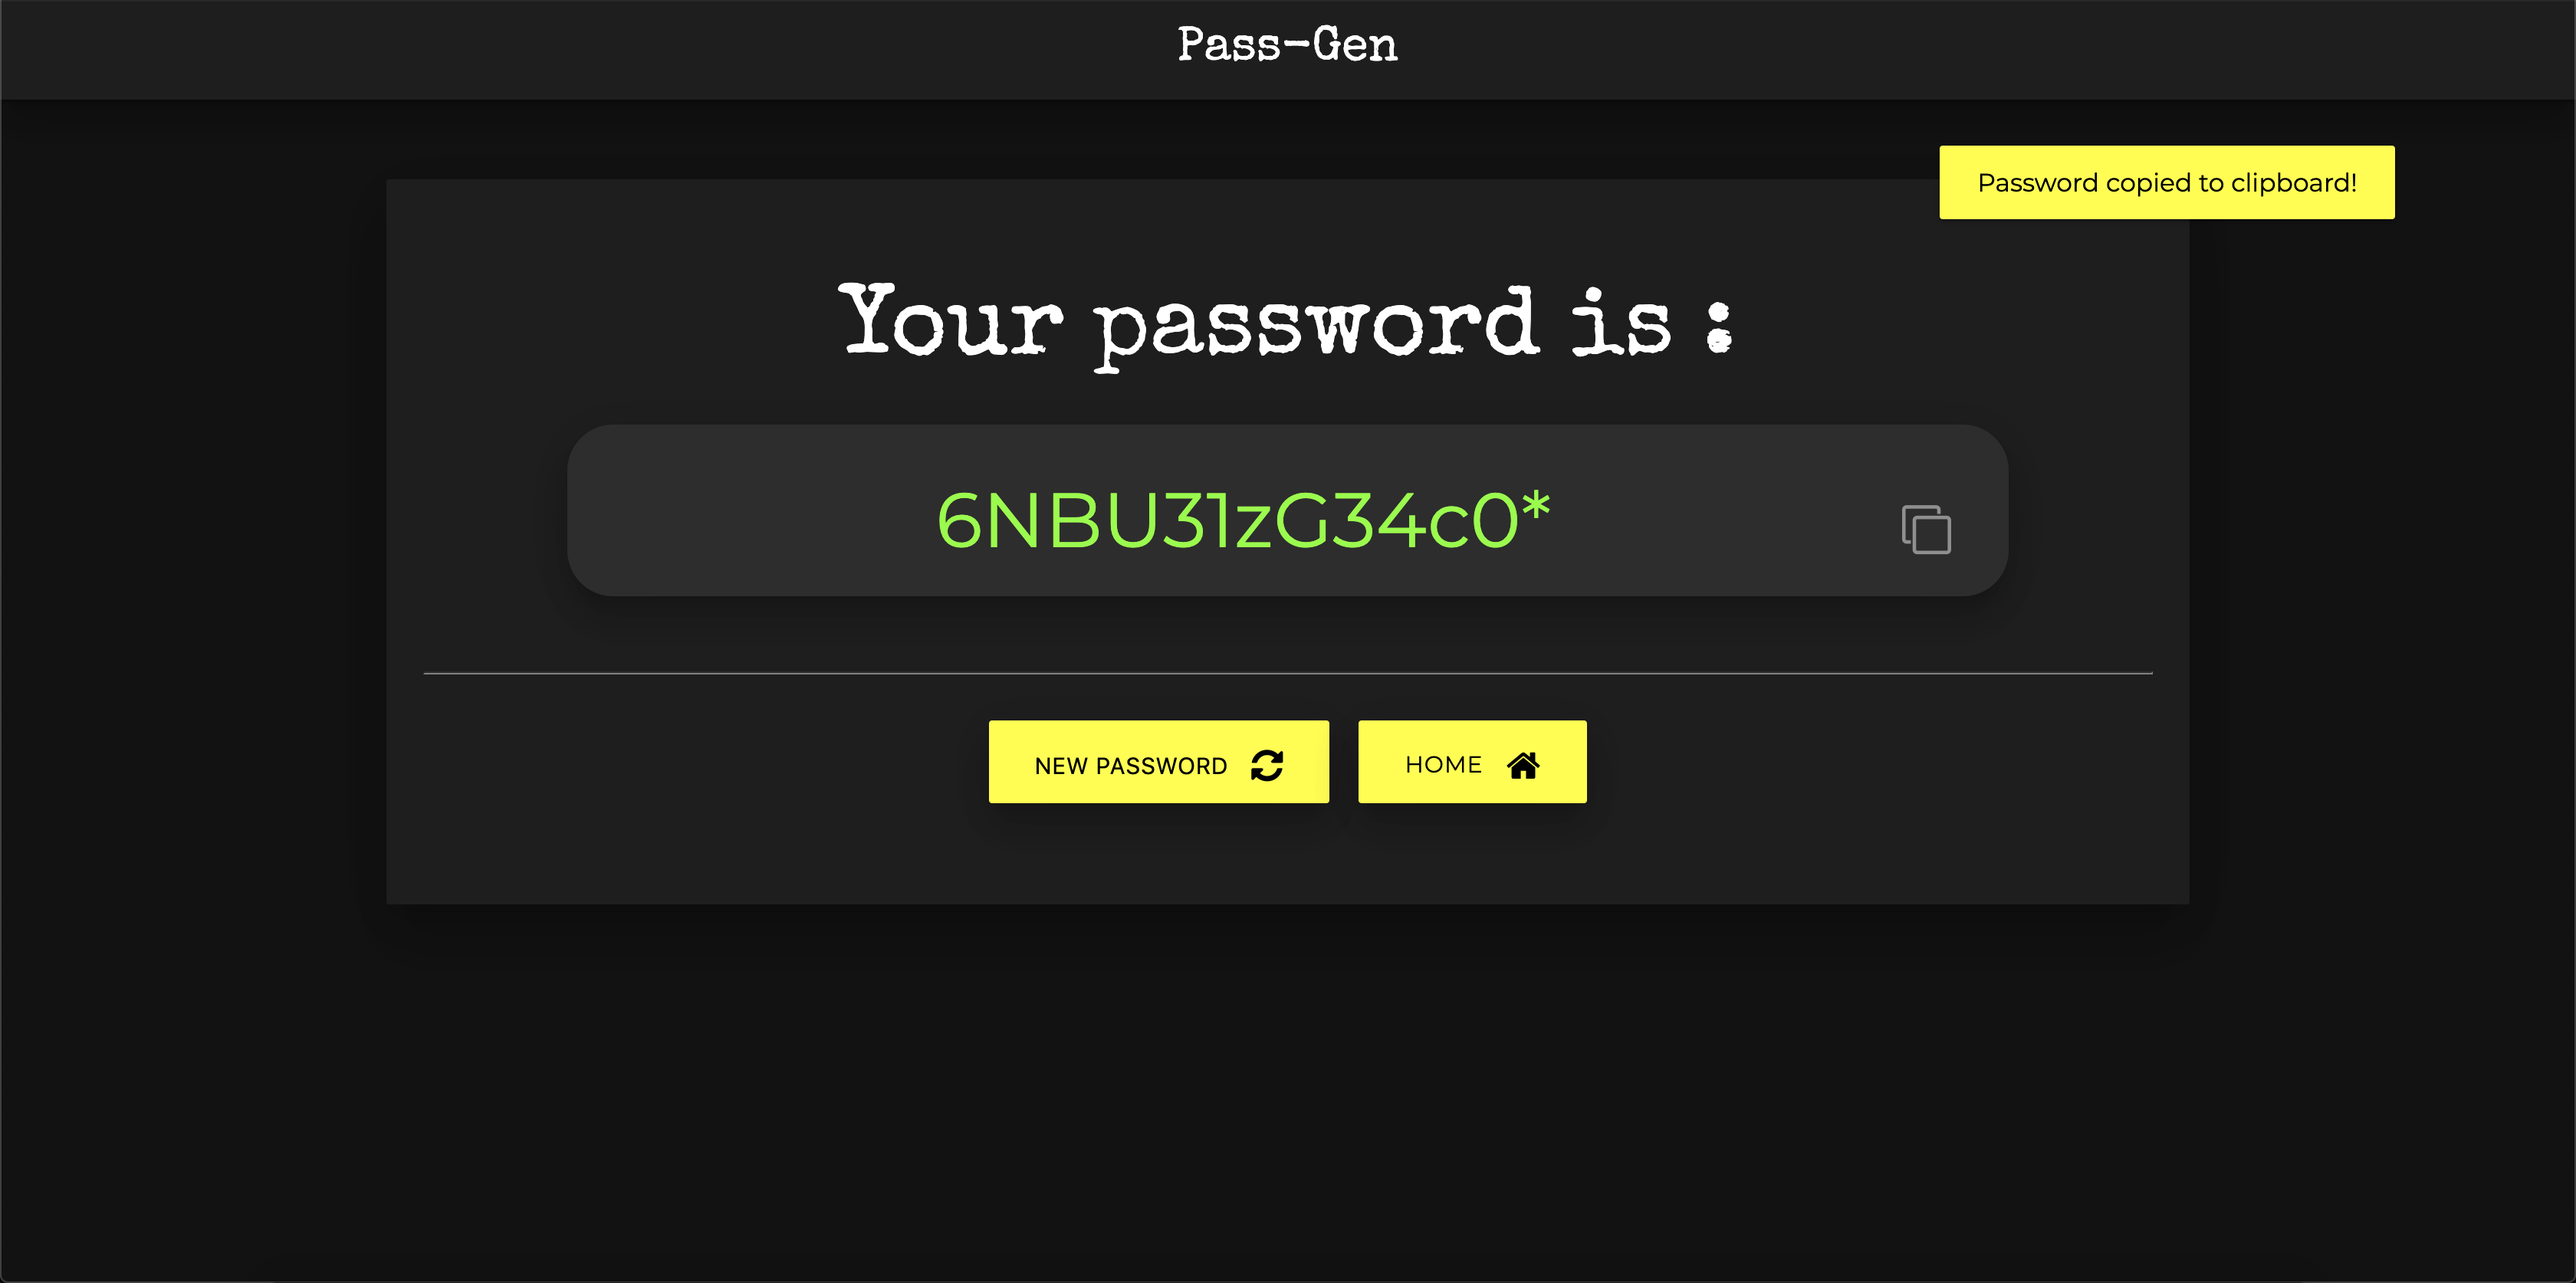
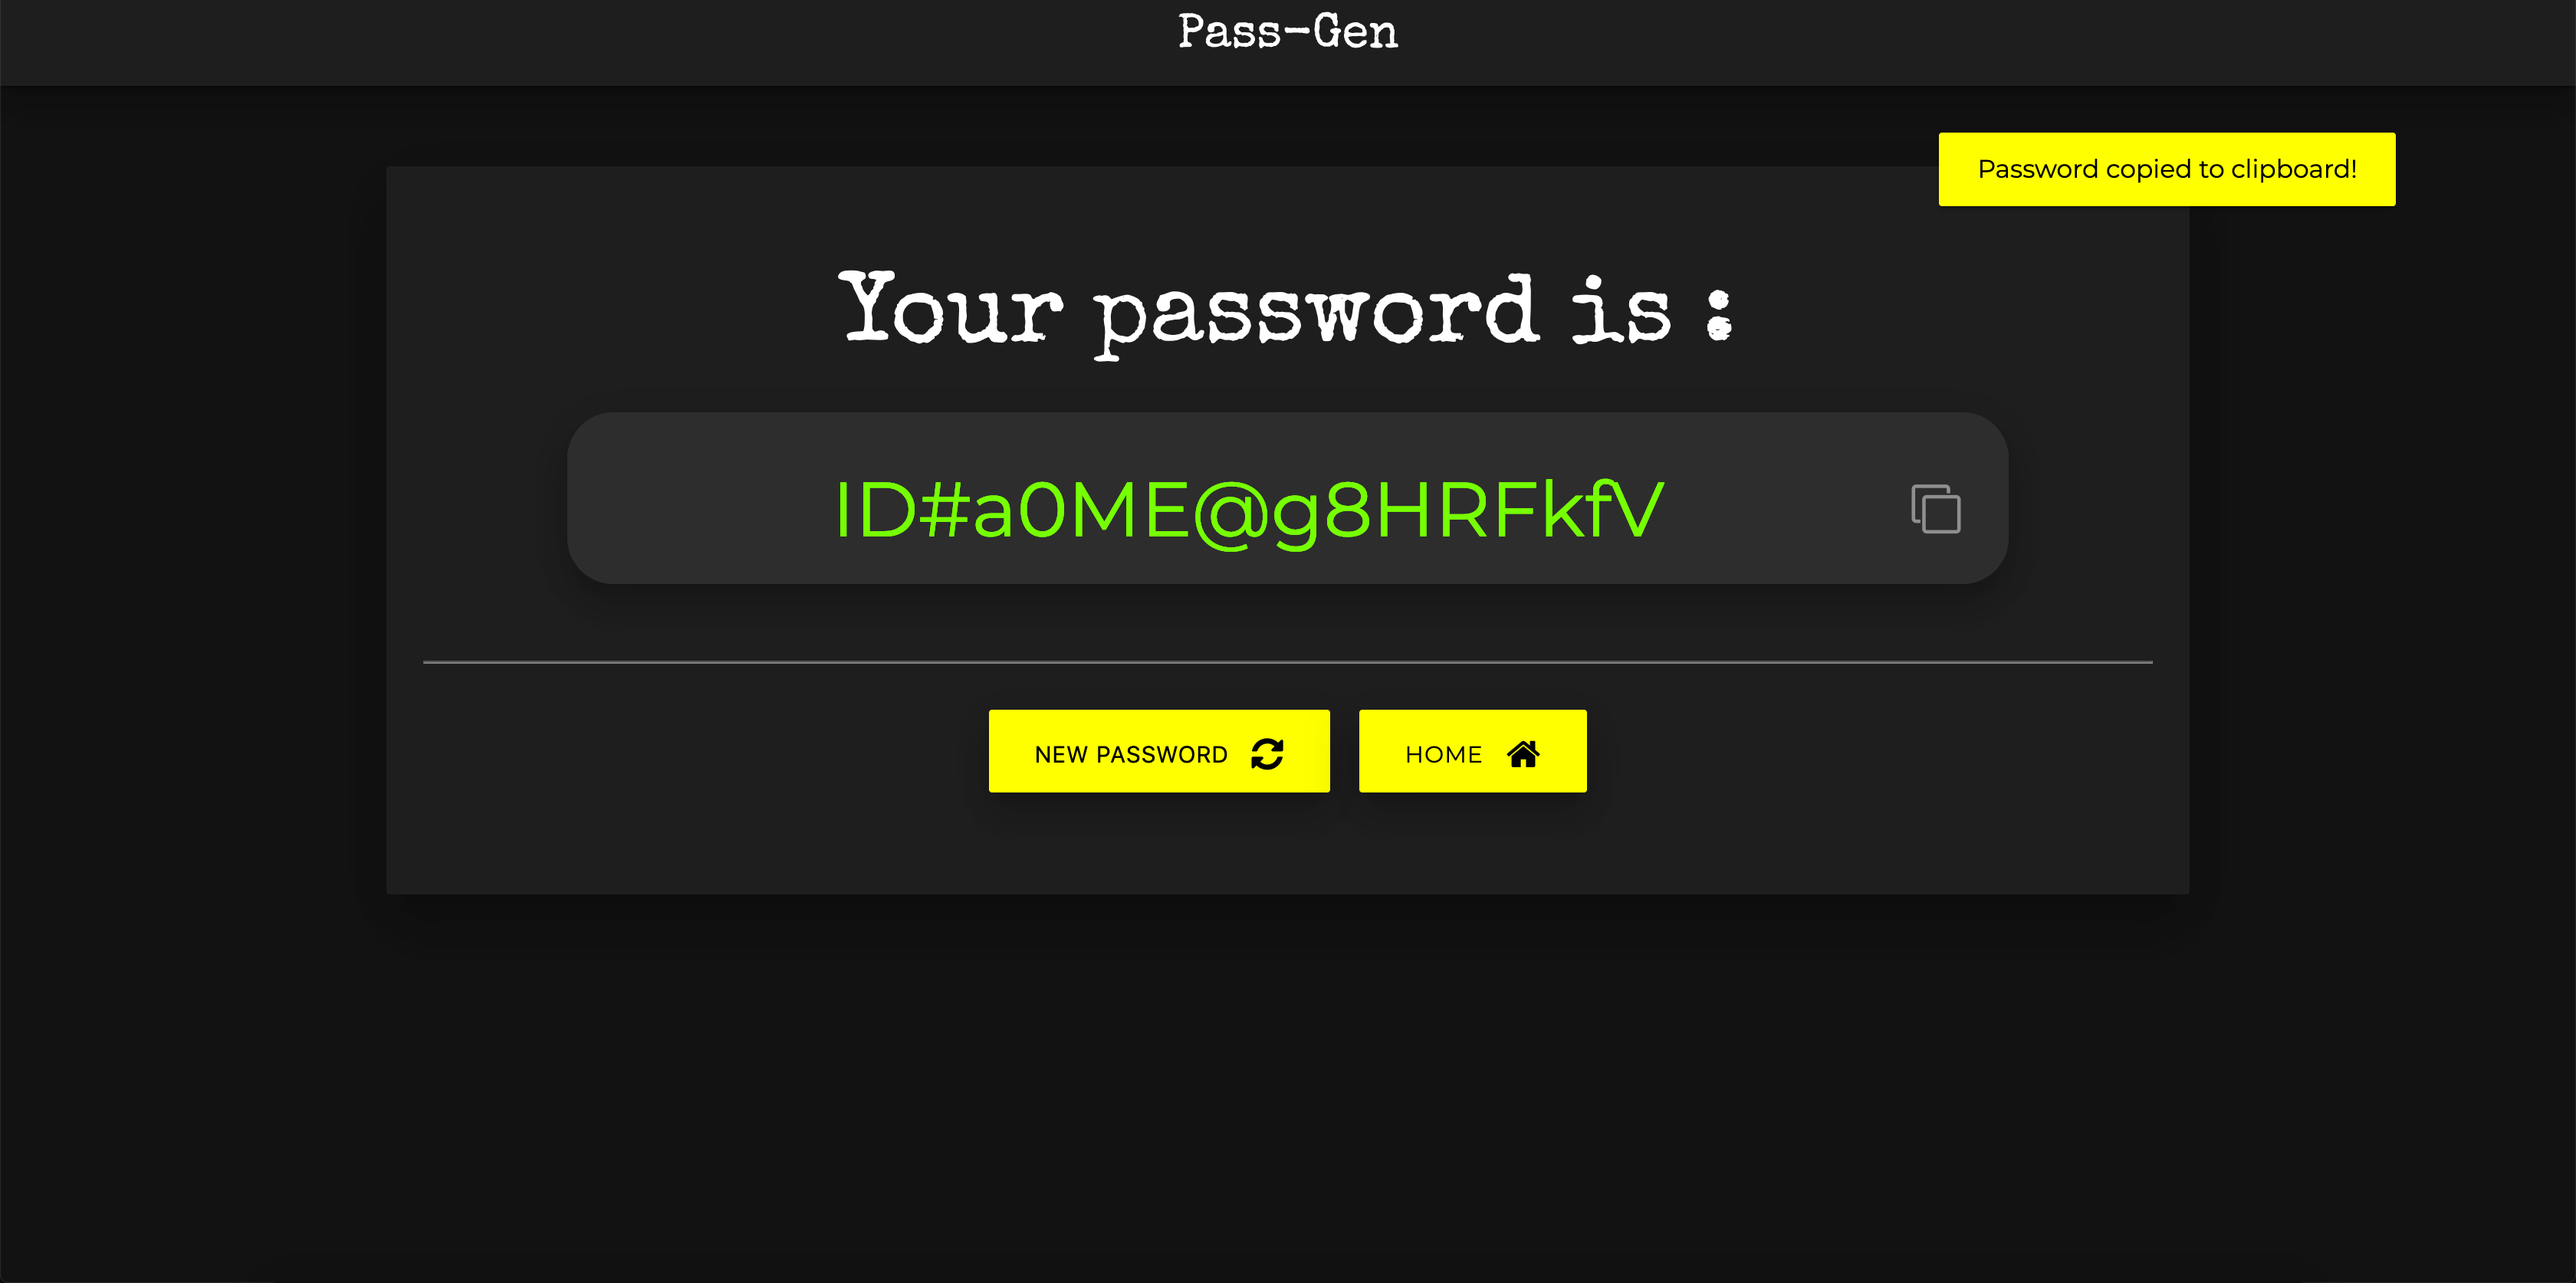
home modded, new password ajax

diff --git a/generator/templates/generator/home.html b/generator/templates/generator/home.html
@@ -5,43 +5,37 @@
 {% block content %}
 <br><br>
 <div class="container center">
-	<div class="card-panel z-depth-5">
+	<div class="card-panel info-card z-depth-5">
 		<div class="row">
 			<div class="col s12">
 				<h1>Password Parameters</h1>
 			</div>
 			<form class="col s12" action="{% url 'password' %}">
 				<div class="row">
-					<div class="input-field col s4 offset-s4 center">
-						<select name="length" id="length">
-							<option value="6">6</option>
-							<option value="7">7</option>
-							<option value="8">8</option>
-							<option value="9">9</option>
-							<option value="10">10</option>
-							<option value="11">11</option>
-							<option value="12">12</option>
-							<option value="13" selected="selected">13</option>
-							<option value="14">14</option>
-							<option value="15">15</option>
-						</select>
-						<label>Length</label>
+					<div class="input-field col s4 offset-s3">
+						<p class="range-field">
+							<input type="range" class="lengthslider" name="passwordlength" id="passwordlength" min="8" max="23" onchange="showVal(this.value)" value="13" />
+						</p>
+					</div>
+					<div class="col s1 offset-s1 card-panel length-card z-depth-5">
+						<h5 id="length"></h5>
+						<label for="length">Length</label>
 					</div>
 				</div>
 				<div class="row">
-					<div class="input-field col s4 center">
+					<div class="input-field col s2 offset-s1 center">
 						<label>
 							<input type="checkbox" name="numbers" id="numbers" checked />
 							<span>Numbers</span>
 						</label>
 					</div>
-					<div class="input-field col s4 center">
+					<div class="input-field col s3 offset-s2 center">
 						<label>
 							<input type="checkbox" name="uppercase" id="uppercase" checked />
 							<span>Uppercase Alphabets</span>
 						</label>
 					</div>
-					<div class="input-field col s4 center">
+					<div class="input-field col s2 offset-s1 center">
 						<label>
 							<input type="checkbox" name="special" id="special" checked />
 							<span>Special Characters</span>

diff --git a/generator/templates/generator/password.html b/generator/templates/generator/password.html
@@ -7,17 +7,16 @@
 <br><br>
 
 <div class="container center">
-    <div class="card-panel z-depth-5">
+    <div class="card-panel info-card z-depth-5">
         <div class="row">
             <div class="col s12">
                 <h1 class="mb-3">Your password is :</h1>
             </div>
             <div class="col s10 offset-s1 password-col z-depth-4">
                 <h2>
-                    <span id="password">{{ password }} </span>
-                    <span class="right">
+                    <span id="password">{{ password }}</span>
+                    <span class="copy-btn">
                         <a class="copy" onclick="copyToClipboard('#password')"><i class="fa fa-clone"></i></a>
-                        &nbsp;
                     </span>
                 </h2>
             </div>
@@ -25,7 +24,7 @@
         <br><hr><br>
         <div class="row">
             <div class="col s12">
-                <button class="btn btn-large z-depth-4" onclick="location.reload(true)">New Password<i class="fa fa-refresh right"></i></button>&emsp;
+                <button class="btn btn-large z-depth-4" onclick="new_password()">New Password<i class="fa fa-refresh right"></i></button>&emsp;
                 <a href="{% url 'home' %}" class="btn btn-large z-depth-4">HOME<i class="fa fa-home right"></i></a>
             </div>
         </div>
@@ -33,4 +32,25 @@
     </div>
 </div>
 
+{% endblock %}
+
+{% block script %}
+<script type="text/javascript">
+    function new_password() {
+        $.ajax({
+            type: 'GET',
+            url : '{% url 'password' %}',
+            data : {
+                passwordlength : {{ request.GET.passwordlength }},
+                uppercase : '{{ request.GET.uppercase }}',
+                special : '{{ request.GET.special }}',
+                numbers : '{{ request.GET.numbers }}',
+                refresh : 'on',
+            },
+            success : function(data) {
+                $('#password').text(data);
+            }
+        });
+    }
+</script>
 {% endblock %}

diff --git a/generator/static/generator/style.css b/generator/static/generator/style.css
@@ -36,8 +36,24 @@ h2 {
     border: 3px solid #ffff00 !important;
 }
 
-.card-panel {
+input[type="range"] {
+    border: 0px !important;
+}
+
+input[type="range"]:-moz-focusring {
+    outline: 0px !important;
+}
+
+input[type="range"] + .thumb {
+    background-color: #121212 !important;
+}
+
+.info-card {
     background-color: #1e1e1e !important;
+}
+
+.length-card {
+    background-color: #ffff00 !important;
 }
 
 .btn {
@@ -85,7 +101,9 @@ h2 {
     color: #8f8f8f !important;
     cursor: pointer !important;
     font-size: xx-large !important;
-    margin-top: auto !important;
+    float: right !important;
+    padding-right: 20px;
+    vertical-align: middle !important;
 }
 
 .toast {
@@ -95,4 +113,13 @@ h2 {
 
 hr {
     border-color: #808080!important;
+}
+
+label {
+    color: #808080 !important;
+}
+
+#length {
+    color: #1e1e1e !important;
+    font-weight: bolder !important;
 }

diff --git a/generator/templates/generator/base.html b/generator/templates/generator/base.html
@@ -6,7 +6,7 @@
 	<link rel="stylesheet" href="https://stackpath.bootstrapcdn.com/font-awesome/4.7.0/css/font-awesome.min.css">
     <link rel="stylesheet" href="{% static 'generator/style.css' %}">
     
-    <link rel="icon" href="{% static 'generator/favicon.ico' %}"
+    <link rel="icon" href="{% static 'generator/favicon.ico' %}">
 
 	<meta charset="UTF-8">
 	<meta name="viewport" content="width=device-width, initial-scale=1.0">
@@ -24,6 +24,7 @@
     <script src="{% static 'generator/jquery-3.5.1.min.js' %}"></script>
     <script src="{% static 'generator/materialize.min.js' %}"></script>
     <script src="{% static 'generator/script.js' %}"></script>
+    {% block script %}{% endblock %}
  
 </body>
 </html>

diff --git a/generator/static/generator/script.js b/generator/static/generator/script.js
@@ -1,6 +1,7 @@
 document.addEventListener('DOMContentLoaded', function() {
     var elems = document.querySelectorAll('select');
     var instances = M.FormSelect.init(elems, {dropdownOptions: {coverTrigger: false}});
+    showVal(document.getElementById('passwordlength').value);
 });
 
 function copyToClipboard(element) {
@@ -10,4 +11,8 @@ function copyToClipboard(element) {
     document.execCommand("copy");
     $temp.remove();
     M.toast({html: 'Password copied to clipboard!'})
+}
+
+function showVal(value) {
+    $('#length').text(value);
 }

diff --git a/generator/views.py b/generator/views.py
@@ -18,14 +18,17 @@ def password(request) :
 	if(request.GET.get('numbers')) :
 		characters.extend(list('1234567890'))
 
-	length = int(request.GET.get('length', 12))
+	passwordlength = int(request.GET.get('passwordlength', 13))
 
 	thepassword = ''
     
-	for _ in range (length) :
+	for _ in range (passwordlength) :
 		thepassword += random.choice(characters)
-
-	return render(request, 'generator/password.html', {'password': thepassword})
+	
+	if(request.GET.get('refresh')) :
+		return HttpResponse(thepassword)
+	else :
+		return render(request, 'generator/password.html', {'password': thepassword})
 
 def about(request) :
 	return render(request, 'generator/about.html')
